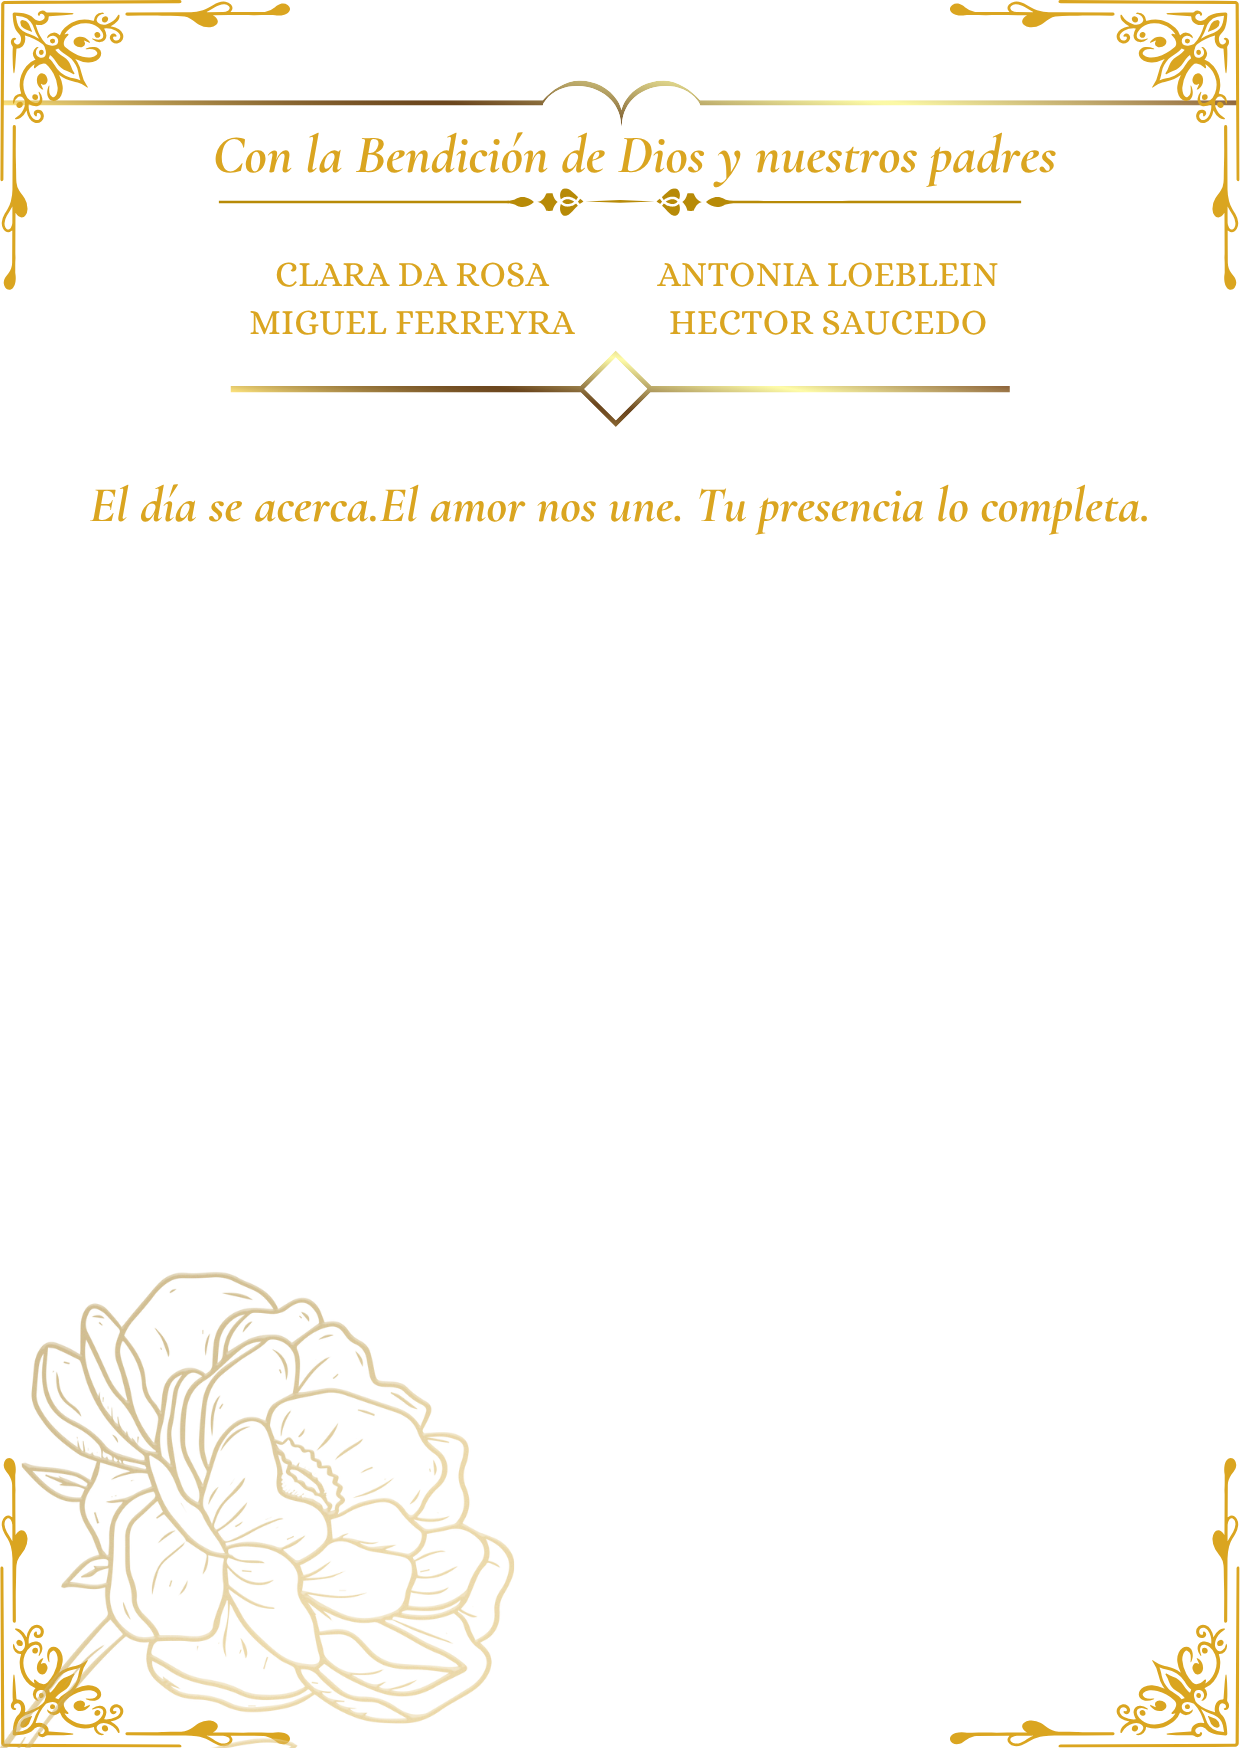
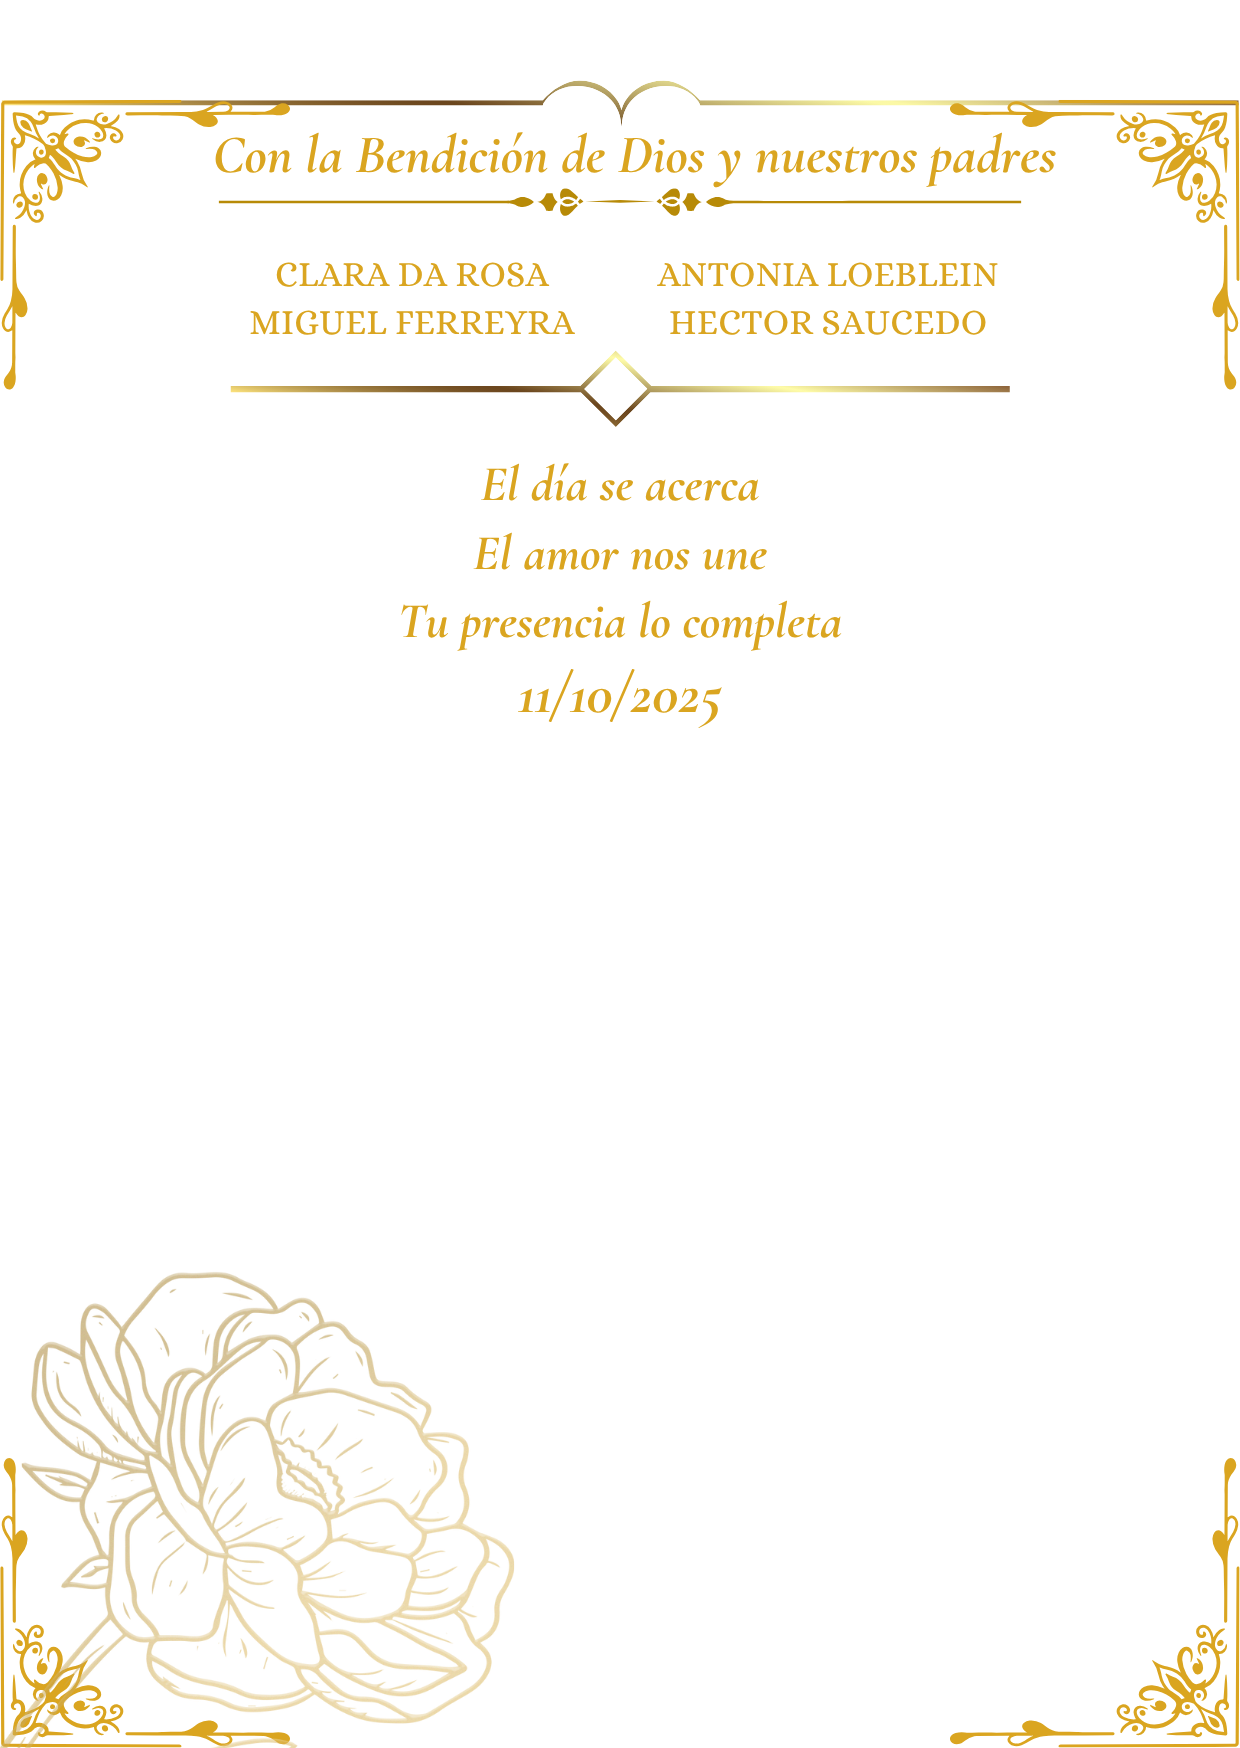
prueba

diff --git a/index.html b/index.html
@@ -18,9 +18,7 @@
     <div id="pagina-2" class="pagina">
         <div class="contenido-pagina-2">
             
-            
-            <!-- "El día se acerca. El amor nos une. Tu presencia lo completa." text removed -->
-            <p class="fecha-boda">11 / 10 / 2025</p> <!-- Wedding Date -->
+
 
             <!-- Countdown Timer -->
             <div class="contador-boda">

diff --git a/style.css b/style.css
@@ -1,7 +1,7 @@
 body, html {
     margin: 0;
     padding: 0;
-    width: %;
+    width: 100%;
     height: 100%;
     overflow-x: hidden;
     font-family: Arial, sans-serif;
@@ -19,6 +19,7 @@ body, html {
     position: relative;
     box-sizing: border-box;
     background-color: #f7f0e6;
+    padding-top: 35vh;
 }
 
 /* Estilos para la primera página (#pagina-1) */
